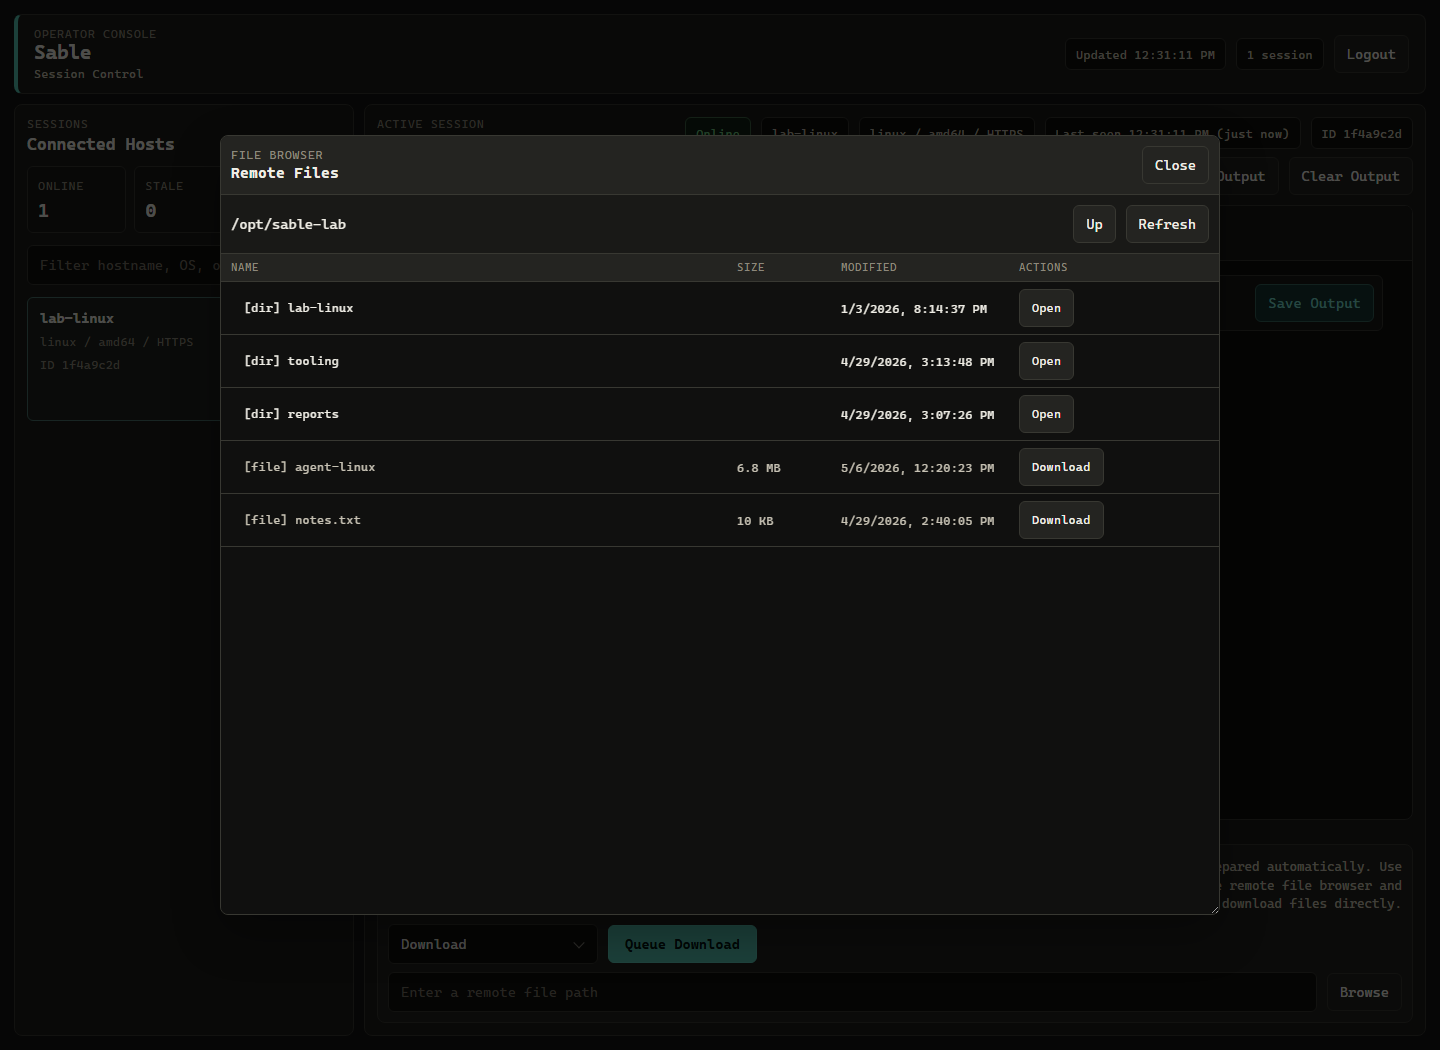
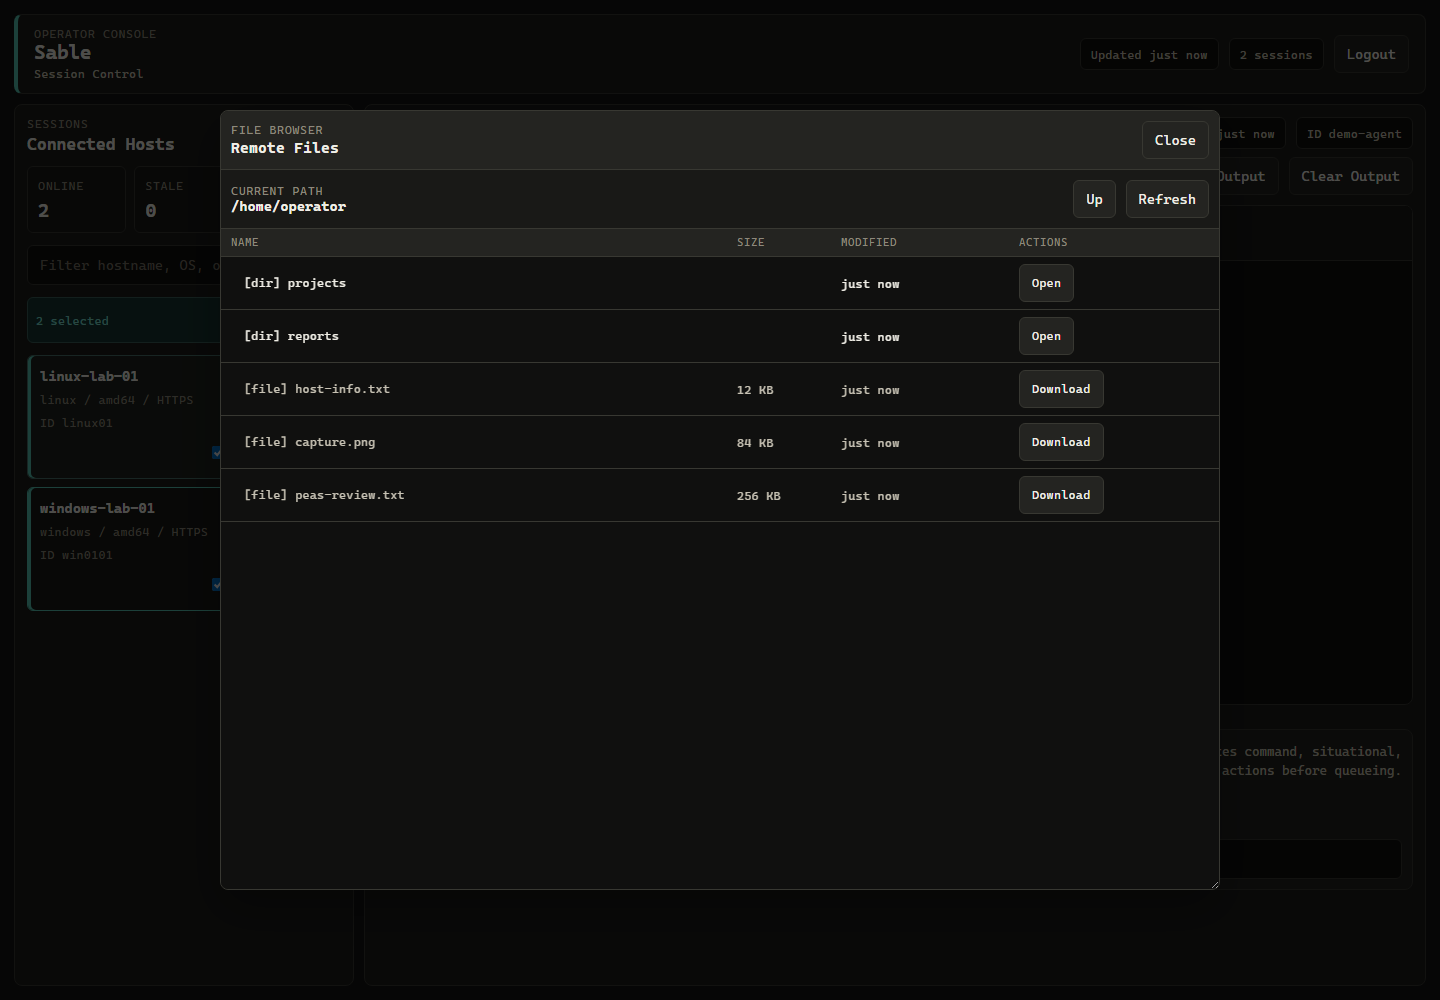
README update
updated images of UI

diff --git a/README.md b/README.md
@@ -22,6 +22,10 @@ Active session view with command output, the Task Builder, and the full action m
 
 ![Sable web console with active session](images/landing_page.png)
 
+Bulk tasking across selected sessions:
+
+![Sable bulk tasking across Linux and Windows sessions](images/bulk_tasking.png)
+
 Session details rail for jobs, artifacts, notes, and audit history:
 
 ![Session Details with artifacts, jobs, notes, and audit panels](images/session_details.png)
